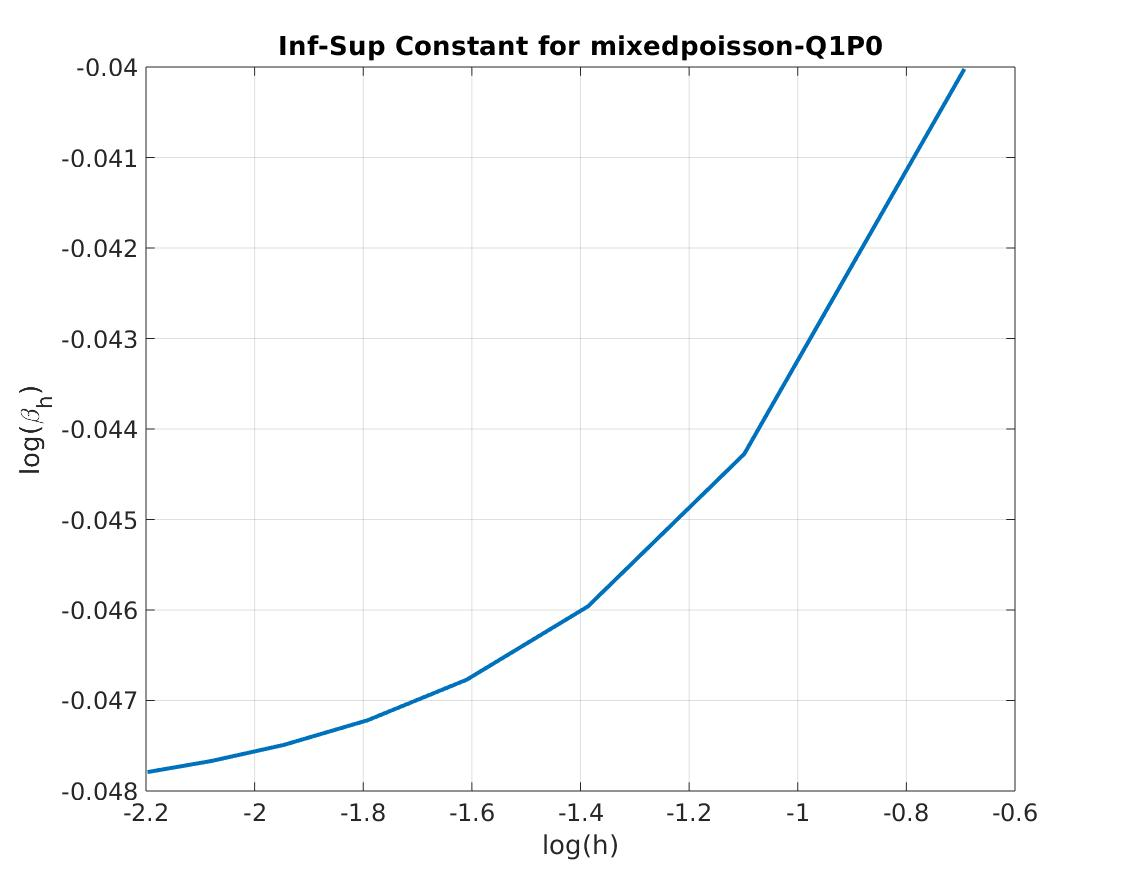
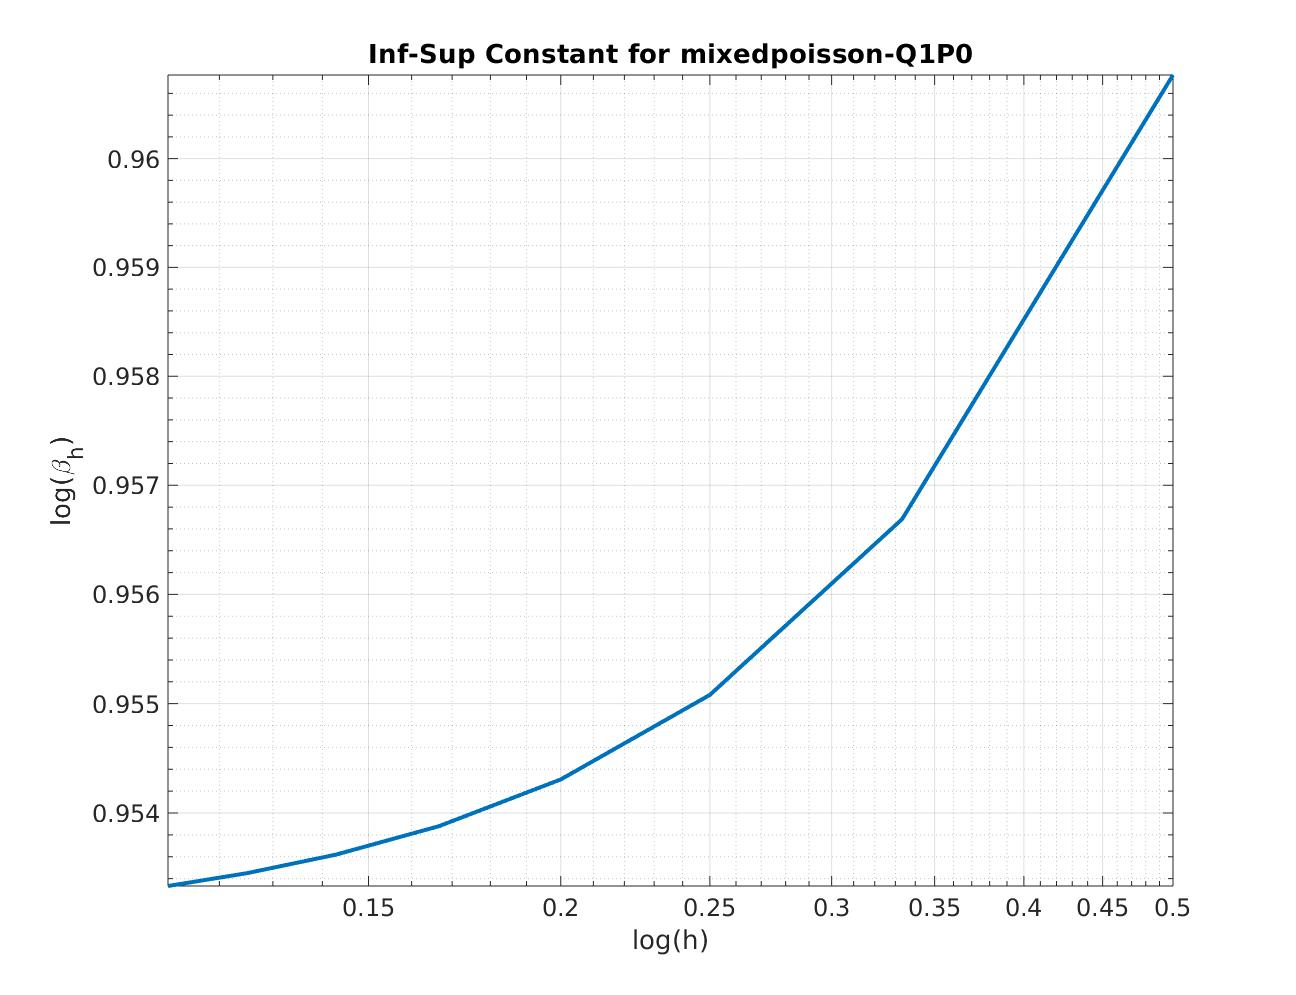
chage plot to loglog

diff --git a/RUNInfSup.m b/RUNInfSup.m
@@ -69,17 +69,17 @@ alpha = abs(min(lambda2));
 
 % mesh size, i start from 2
 h = 1/i;
-xx(i-1) = log(h);
+xx(i-1) = h;
 % inf-sup constant
-yy1(i-1) = log(beta);
+yy1(i-1) = beta;
 % coercivity constant
-yy2(i-1) = log(alpha);
+yy2(i-1) = alpha;
 
 
 end
 
 figure(2)
-plot(xx,yy1,'LineWidth',3)
+loglog(xx,yy1,'LineWidth',3)
 xlabel('log(h)','fontsize',18)
 ylabel('log(\beta_h)','fontsize',18)
 title(strcat('Inf-Sup Constant for mixedpoisson-','Q', num2str(polydof_u),'P',num2str(polydof_p)))
@@ -87,7 +87,7 @@ grid on
 set(gca,'FontName','Helvetica','FontSize',18)
 
 figure(3)
-plot(xx,yy2,'LineWidth',3)
+loglog(xx,yy2,'LineWidth',3)
 title(strcat('Coercivity Constant for mixedpoisson-','Q', num2str(polydof_u),'P',num2str(polydof_p)))
 xlabel('log(h)','fontsize',18)
 ylabel('log(\alpha_h)','fontsize',18)
